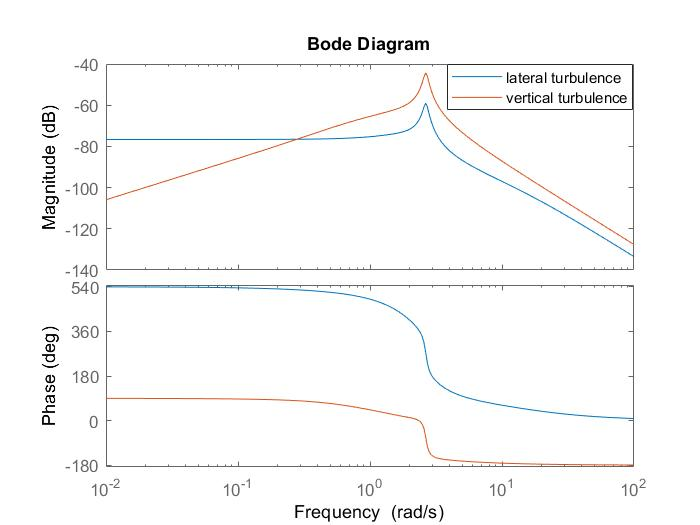
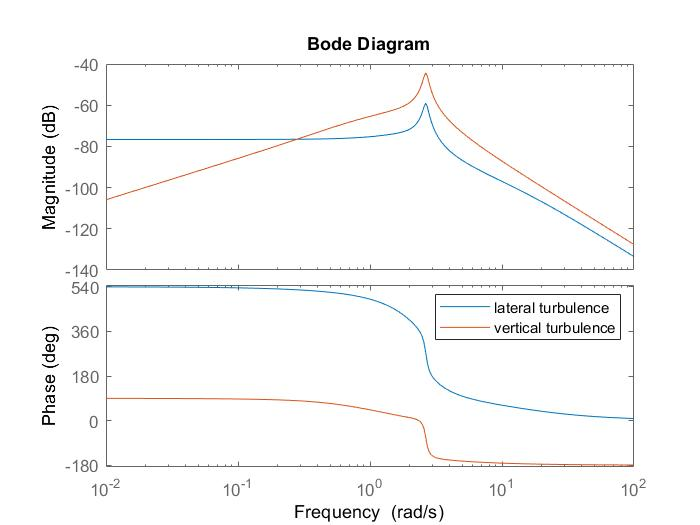
update

Changed region(s): [[0.63, 0.1219, 0.9, 0.2133], [0.63, 0.579, 0.9, 0.64]]

diff --git a/Ch_3_spectral_analysis.m b/Ch_3_spectral_analysis.m
@@ -13,9 +13,9 @@ Sxx  = [Sbeta_c Sphi_c Sbp_c Srb_c Say_c];
 %reduced model
 temp = bode(Ar,Br,Cr(1,:),Dr(1,:),4,w) + bode(Ar,Br,Cr(1,:),Dr(1,:),5,w); Sbeta_r  = temp.*temp;
 temp = bode(Ar,Br,Cr(2,:),Dr(2,:),4,w)+ bode(Ar,Br,Cr(2,:),Dr(2,:),5,w); Srb_r    = temp.*temp;
+temp = bode(Ar,Br,V*(Ar(1,:)+[0 2*V/b 0    0    0    0    0  0]),V*Br(1,:),4,w) + bode(Ar,Br,V*(Ar(1,:)+[0 2*V/b 0    0    0    0    0  0]),V*Br(1,:),5,w);Say_r = temp.*temp;
 
-
-Sxx_r = [Sbeta_r,Srb_r];
+Sxx_r = [Sbeta_r Srb_r Say_r];
 u = [nn' nn' nn'  w_g'  v_g'];
 
 yt1 = lsim(A2,B,C1,D,u,t);
@@ -48,11 +48,11 @@ ay_psd_c = (1/T)*(    ay_c.*conj(ay_c));
 %reduced model
 BETA_r  = dt*fft(beta_r);
 Rbv_r     = dt*fft(rbV_r);
-%ay_r = dt*fft(a_y_r);
+ay_r = dt*fft(a_y_r);
 
 beta_psd_r  = (1/T)*( BETA_r.*conj(BETA_r));
 rbv_psd_r= (1/T)*(    Rbv_r.*conj(Rbv_r));
-%ay_psd_r = (1/T)*(    ay_r.*conj(ay_r));
+ay_psd_r = (1/T)*(    ay_r.*conj(ay_r));
 
 
 % DEFINE FREQUENCY VECT
@@ -74,7 +74,8 @@ pBETA_r  = pwelch(beta_r,omega,[],N,fs);
 pBETA_r = pBETA_r/2;
 pRbv_r     = pwelch(rbV_r,omega,[],N,fs);
 pRbv_r = pRbv_r/2;
-%pay_r = pwelch(a_y_r);
+pay_r = pwelch(a_y_r,omega,[],N,fs);
+pay_r = pay_r/2;
 
  %PSD ESTIMATE
 % pbeta_psd_c  = ( pBETA_c.*conj(pBETA_c));
@@ -112,6 +113,17 @@ loglog(w,Sxx(:,5),'k',omega,ay_psd_c(1:N/2),'-',omega,pay_c(2:N/2+1));
 axis(10.^[-1 2 -10 5]); xlabel('omega [rad/s]'); ylabel('S_a_a [(m/s^2)^2/rad/s]')
 legend('Analytical PSD', 'Experimental Periodogram','Smoothed Periodogram')
 % subplot(2,1,2); 
-% (loglog(w,Sxx_r(:,3),'k',omega,ay_psd_r(1:N/2),'-',omega(1:8193),pay_c));
-% axis(10.^[-1 2 -10 4]); xlabel('omega [rad/s]'); ylabel('ay_r PSD')
-% legend('Analytical PSD', 'Periodogram','Smoothed Periodogram')
+% loglog(w,Sxx_r(:,3),'k',omega,ay_psd_r(1:N/2),'-',omega,pay_r(2:N/2+1));
+% axis(10.^[-1 2 -10 5]); xlabel('omega [rad/s]'); ylabel('S_a_a [(m/s^2)^2/rad/s]')
+% legend('Analytical PSD', 'Experimental Periodogram','Smoothed Periodogram')
+figure(13) % for beta comptete model
+bode(A2,B,C(1,:),D(1,:),4,w)
+hold on
+bode(A2,B,C(1,:),D(1,:),5,w)
+legend('lateral turbulence','vertical turbulence')
+% for rb/2v full model
+figure(14)
+bode(A2,B,C(4,:),D(4,:),4,w)
+hold on
+bode(A2,B,C(4,:),D(4,:),5,w)
+legend('lateral turbulence','vertical turbulence')

diff --git a/Ch_2_time_response.m b/Ch_2_time_response.m
@@ -43,6 +43,8 @@ y2r = lsim(sys_reduced,u2,t);
 % RESPONSE to w_g
 y3r = lsim(sys_reduced,u3,t);
 ytr = y1r+y2r+y3r;
+a_y_r = V*(Ar(1,:)*ytr' +Br(1,:)*u1' + Br(1,:)*u2' + Br(1,:)*u3'+ (2*V/b)*ytr(:,2)');
+
 % PLOT RESULTS
 figure(4)
 subplot(2,1,1);
@@ -79,15 +81,16 @@ xlabel('Time (s)')
 ylabel('pb/2V (rad/s)')
 grid on
 figure(7)
+subplot(2,1,1)
 plot(t,a_y,'g')
 xlabel('Time (s) ')
 ylabel('a_y_c (m/s)')
 grid on
-% subplot(2,1,2); 
-% plot(t,a_y_r,'b','LineWidth',1)
-% xlabel('Time (s)')
-% ylabel('a_y_r (m/s)')
-% grid on
+subplot(2,1,2); 
+plot(t,a_y_r,'b','LineWidth',1)
+xlabel('Time (s)')
+ylabel('a_y_r (m/s)')
+grid on
 figure(8)
 subplot(2,1,1);
 plot(t,yt,'g')
